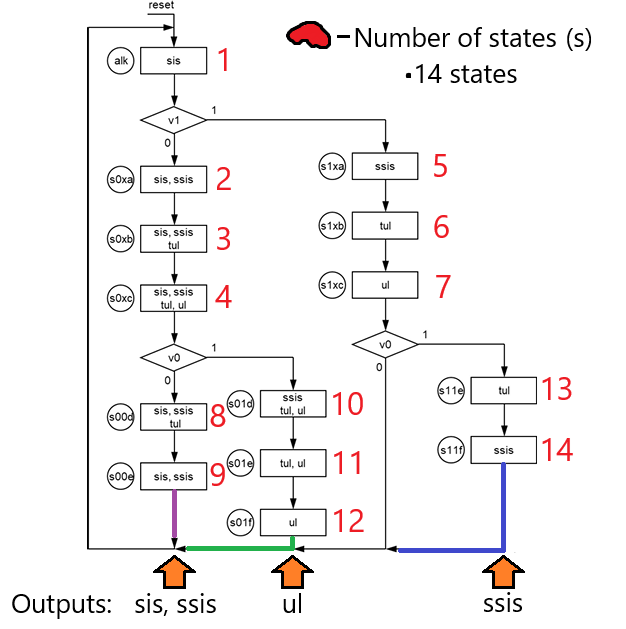
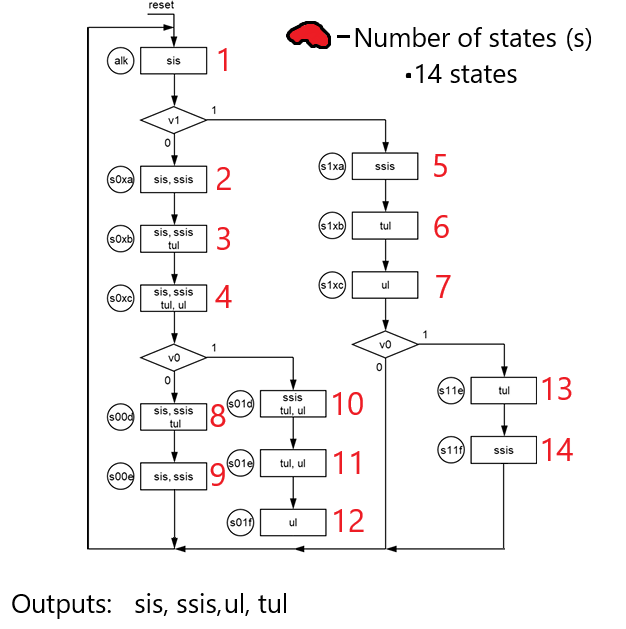
fixing image

Changed region(s): [[0.6374, 0.725, 0.8498, 0.9968], [0.2428, 0.7854, 0.4856, 0.9968]]

diff --git a/06_Sequential_Circuits.md b/06_Sequential_Circuits.md
@@ -15,10 +15,11 @@ $2^k \geq s$ _or_ $k \geq log_2(s)$
 - $k ≈ 4$
 - So atleast __4__ flip-flops are needed.   
 
-The ASM chart shows that the system has (__3 unique__) output signals:
+The ASM chart shows that the system has (__4 unique__) output signals:
  - sis
  - ssis
  - ul
+ - tul
 
 The system is a __Mealy__ state machine, because on some of the branches the outputs depend on the current state and the input values.
 
